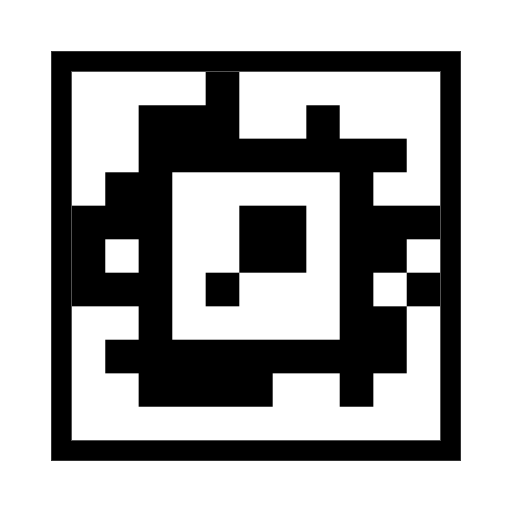
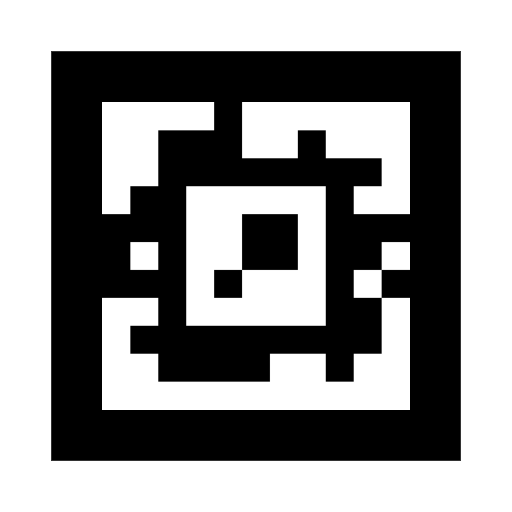
a

Changed region(s): [[0.125, 0.125, 0.875, 0.875]]

diff --git a/index.html b/index.html
@@ -5,7 +5,7 @@
     <script src="https://raw.githack.com/AR-js-org/AR.js/master/aframe/build/aframe-ar.js"></script>
     <body style="margin : 0px; overflow: hidden;">
         <a-scene embedded arjs>
-        <a-marker preset="hiro">
+        <a-marker-camera preset='custom' type='pattern' url='https://alanli-dev.github.io/assets/pattern-tag49_12_00000.patt'></a-marker-camera>
             <a-entity
             position="0 -1 0"
             scale="0.05 0.05 0.05"
